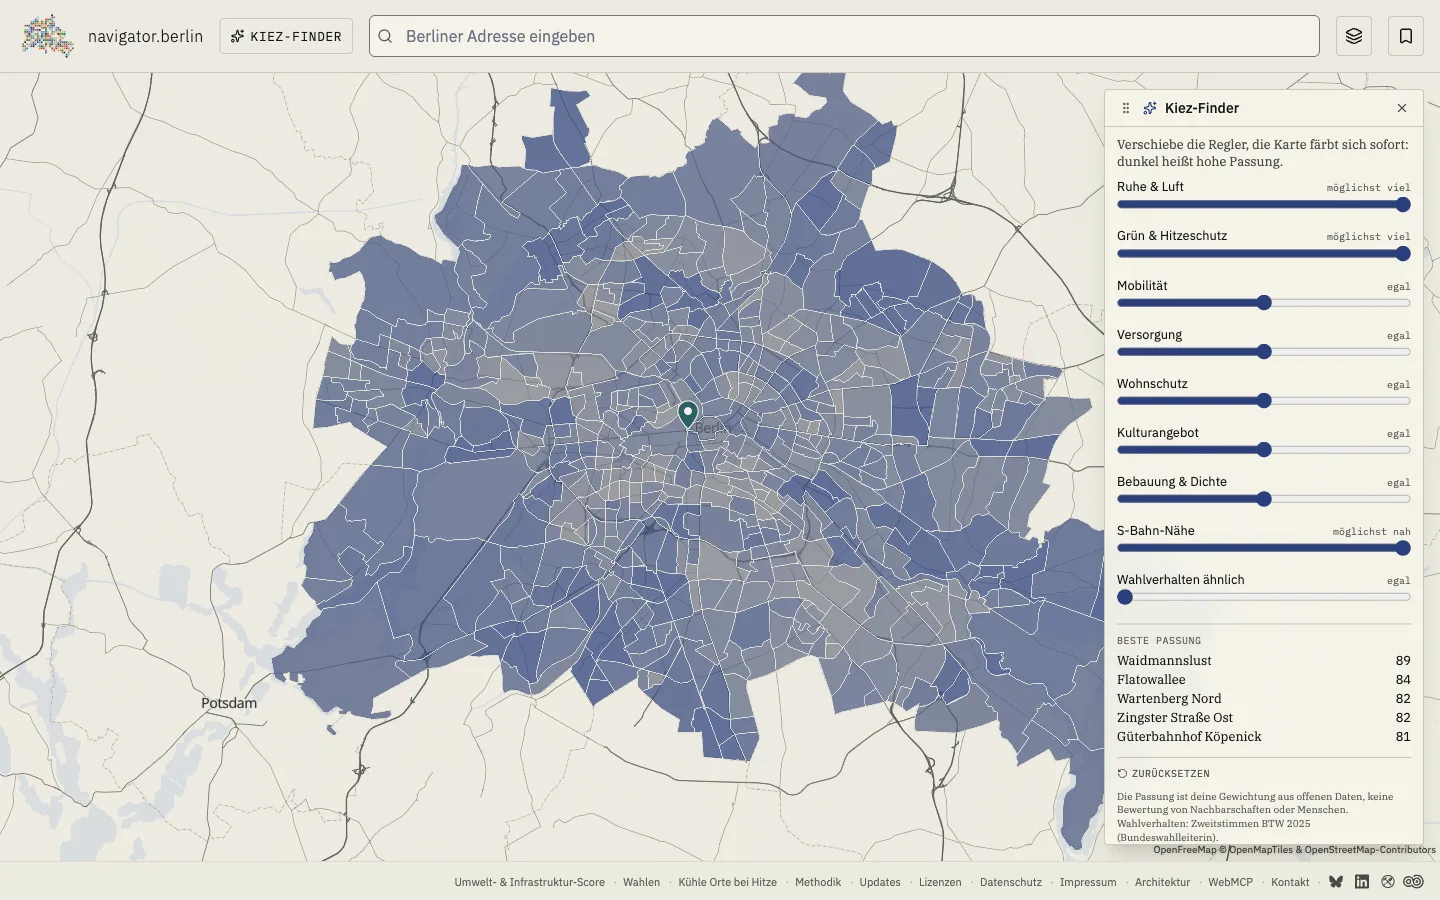
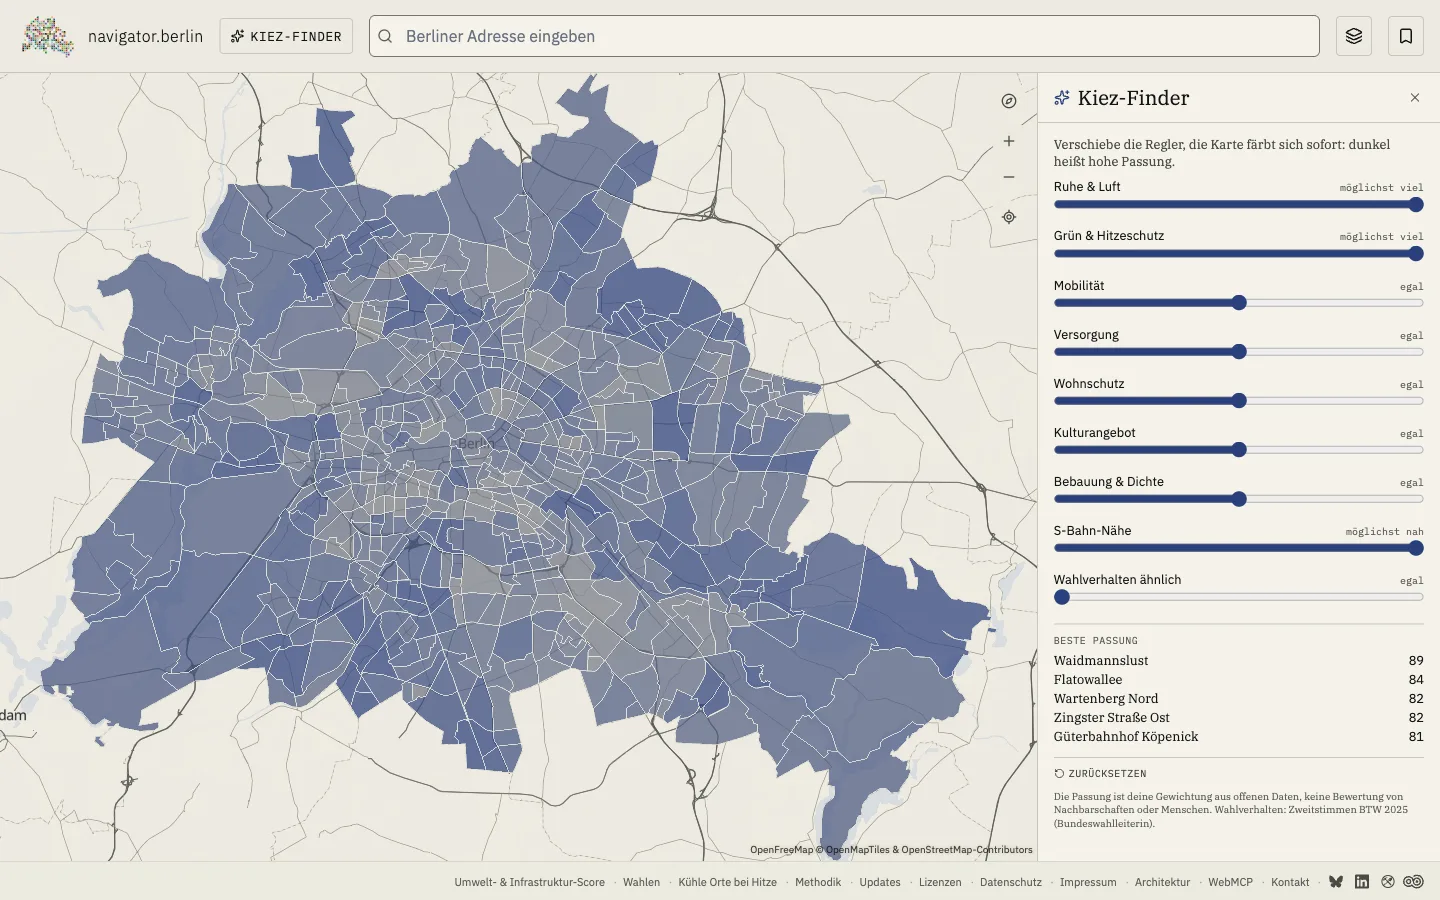
Docke Kiez-Finder in den Inspector-Slot statt Floating-Dialog
Der frei verschiebbare Dialog war auf Mobile unbenutzbar und zitterte
beim Drag. Der Finder sitzt jetzt im Inspector-Slot: Desktop Seitenpanel,
Mobile Bottom-Sheet, wie der Inspector. Finder und Inspector wechseln
sich ab; bei Karten-Klick bleibt der Finder gemountet, Gewichte und
Karten-Färbung überleben den Wechsel. Drag-Code komplett entfernt.

?finder=1 wird jetzt bei jeder Navigation konsumiert, nicht nur beim
Mount: der Header-Link öffnet den Finder ohne Reload. Der Param fliegt
nach dem Konsum aus der URL. Beim Finder-Einstieg entfällt die
Default-Adresse, sonst verdeckt der Auto-Inspector den Finder.

Home-Screenshot auf das gedockte Layout aktualisiert.

diff --git a/src/routes/(with-header)/explore/+page.svelte b/src/routes/(with-header)/explore/+page.svelte
@@ -192,7 +192,6 @@
 		// (z.B. kuehle-orte via Hitze-Landing → Home → Explorer).
 		// Multi-Layer-Limit auch am URL-Einstieg: höchstens 2 Choroplethen.
 		ui.activeLayerSlugs = capPolygonSlugs(data.activeLayers ?? []);
-		if (featureFlags.kiezFinder && data.finderOpen) ui.finderOpen = true;
 		// Lead gegen die GEKAPPTE Liste prüfen: parseLead sah die rohe URL-Liste,
 		// der Cap kann den Lead-Slug gerade entfernt haben.
 		ui.choroplethLeadSlug =
@@ -200,7 +199,11 @@
 		// Story 2.12 Quick-Links: wenn `?address=lng,lat&q=…` gesetzt, bauen
 		// wir eine synthetische GeocodeSuggestion und triggern die Adress-
 		// Selection. Inspector öffnet sich dann automatisch.
-		if (typeof data.address?.lng === 'number' && typeof data.address?.lat === 'number') {
+		// Finder-Einstieg (?finder=1): keine Default-Adresse setzen, sonst
+		// verdeckt der automatisch geöffnete Inspector den Finder im Slot.
+		if (featureFlags.kiezFinder && data.finderOpen) {
+			// bewusst leer: der Finder besetzt den Slot, kein Auto-Inspector
+		} else if (typeof data.address?.lng === 'number' && typeof data.address?.lat === 'number') {
 			const displayName =
 				data.address.q ?? `${data.address.lat.toFixed(5)}, ${data.address.lng.toFixed(5)}`;
 			selection.set({
@@ -539,6 +542,26 @@
 			return;
 		}
 		void renderRegionOutline(addr.lat, addr.lng, scope, addr.id);
+	});
+
+	// ?finder=1 wird bei JEDER Navigation konsumiert, nicht nur beim Mount:
+	// der Header-Link navigiert client-seitig, onMount liefe dann nie.
+	// Nach dem Konsum fliegt der Param aus der URL, damit ein erneuter
+	// Header-Klick wieder eine echte Navigation auslöst.
+	$effect(() => {
+		if (!featureFlags.kiezFinder || !data.finderOpen) return;
+		ui.finderOpen = true;
+		ui.inspectorOpen = false;
+		const url = new URL(window.location.href);
+		if (url.searchParams.has('finder')) {
+			url.searchParams.delete('finder');
+			// eslint-disable-next-line svelte/no-navigation-without-resolve
+			void goto(`?${url.searchParams.toString()}`, {
+				replaceState: true,
+				keepFocus: true,
+				noScroll: true
+			});
+		}
 	});
 
 	$effect(() => {
@@ -1088,14 +1111,14 @@
 		}
 	}
 
-	const showSidePanel = $derived(
-		viewport.breakpoint !== 'mobile' &&
-			((ui.inspectorOpen && ui.selectedAddress !== null) || ui.compareMode)
-	);
-	const showBottomSheet = $derived(
-		viewport.breakpoint === 'mobile' &&
-			((ui.inspectorOpen && ui.selectedAddress !== null) || ui.compareMode)
-	);
+	const finderActive = $derived(featureFlags.kiezFinder && ui.finderOpen);
+	const inspectorActive = $derived(ui.inspectorOpen && ui.selectedAddress !== null);
+	const slotOccupied = $derived(inspectorActive || ui.compareMode || finderActive);
+	const showSidePanel = $derived(viewport.breakpoint !== 'mobile' && slotOccupied);
+	const showBottomSheet = $derived(viewport.breakpoint === 'mobile' && slotOccupied);
+	// Finder bleibt gemountet, solange er offen ist: Slider-Gewichte und
+	// Karten-Färbung überleben den Wechsel zum Inspector (Karten-Klick).
+	const finderVisible = $derived(finderActive && !inspectorActive && !ui.compareMode);
 
 	const ogInput = $derived.by<OgImageInput | null>(() => {
 		const addr = ui.selectedAddress;
@@ -1199,12 +1222,6 @@
 			onRemove={onLegendRemove}
 			onPromoteLayer={(slug: string) => (ui.choroplethLeadSlug = slug)}
 		/>
-		{#if featureFlags.kiezFinder && ui.finderOpen}
-			<KiezFinderPanel
-				map={rawMap as unknown as FinderMapApi | null}
-				onClose={() => (ui.finderOpen = false)}
-			/>
-		{/if}
 		<MapHoverTooltip
 			map={rawMap as MapHoverApi | null}
 			activeLayerSlugs={ui.activeLayerSlugs}
@@ -1225,7 +1242,11 @@
 	{#if showSidePanel}
 		<aside
 			class="min-h-0 overflow-y-auto border-t border-rule bg-bg-elevated lg:h-full lg:border-t-0 lg:border-l"
-			aria-label={ui.compareMode ? 'Adress-Vergleich' : 'Adress-Inspector-Bereich'}
+			aria-label={ui.compareMode
+				? 'Adress-Vergleich'
+				: inspectorActive
+					? 'Adress-Inspector-Bereich'
+					: 'Kiez-Finder'}
 			data-testid="inspector-slot"
 		>
 			{#if ui.compareMode}
@@ -1234,8 +1255,16 @@
 					geocode={geocodeForCompare}
 					onOpenBookmarkPicker={openBookmarkPickerForCompare}
 				/>
-			{:else}
+			{:else if inspectorActive}
 				<InspectorPanel layerMeta={manifestLayers} />
+			{/if}
+			{#if finderActive && viewport.breakpoint !== 'mobile'}
+				<div class={finderVisible ? 'h-full' : 'hidden'}>
+					<KiezFinderPanel
+						map={rawMap as unknown as FinderMapApi | null}
+						onClose={() => (ui.finderOpen = false)}
+					/>
+				</div>
 			{/if}
 		</aside>
 	{/if}
@@ -1244,8 +1273,16 @@
 			open
 			snapVh={ui.sheetSnapVh}
 			onSnap={setSnap}
-			onClose={ui.compareMode ? () => exitCompareMode(ui) : closeInspector}
-			ariaLabel={ui.compareMode ? 'Adress-Vergleich' : 'Adress-Inspektor'}
+			onClose={ui.compareMode
+				? () => exitCompareMode(ui)
+				: inspectorActive
+					? closeInspector
+					: () => (ui.finderOpen = false)}
+			ariaLabel={ui.compareMode
+				? 'Adress-Vergleich'
+				: inspectorActive
+					? 'Adress-Inspektor'
+					: 'Kiez-Finder'}
 		>
 			{#if ui.compareMode}
 				<ComparePanel
@@ -1253,8 +1290,16 @@
 					geocode={geocodeForCompare}
 					onOpenBookmarkPicker={openBookmarkPickerForCompare}
 				/>
-			{:else}
+			{:else if inspectorActive}
 				<InspectorPanel layerMeta={manifestLayers} variant="sheet" />
+			{/if}
+			{#if finderActive && viewport.breakpoint === 'mobile'}
+				<div class={finderVisible ? '' : 'hidden'}>
+					<KiezFinderPanel
+						map={rawMap as unknown as FinderMapApi | null}
+						onClose={() => (ui.finderOpen = false)}
+					/>
+				</div>
 			{/if}
 		</BottomSheet>
 	{/if}

diff --git a/src/lib/components/atlas/kiez-finder-panel.svelte b/src/lib/components/atlas/kiez-finder-panel.svelte
@@ -1,5 +1,5 @@
 <script lang="ts">
-	import { X, RotateCcw, Sparkles, GripVertical } from '@lucide/svelte';
+	import { X, RotateCcw, Sparkles } from '@lucide/svelte';
 	import type { FeatureCollection, MultiPolygon, Polygon } from 'geojson';
 	import { PARTEI_FARBEN, type ParteiKurzname } from '$lib/data/partei-farben.js';
 	import {
@@ -200,51 +200,6 @@
 		};
 	});
 
-	// Drag: Pointer am Kopf verschiebt das Panel (Viewport-geklemmt).
-	let dx = $state(0);
-	let dy = $state(0);
-	let dragging: { startX: number; startY: number; baseX: number; baseY: number } | null = null;
-	let panelEl = $state<HTMLElement | null>(null);
-
-	function onDragStart(event: PointerEvent): void {
-		dragging = { startX: event.clientX, startY: event.clientY, baseX: dx, baseY: dy };
-		window.addEventListener('pointermove', onDragMove);
-		window.addEventListener('pointerup', onDragEnd, { once: true });
-	}
-	function onDragMove(event: PointerEvent): void {
-		if (!dragging) return;
-		const rect = panelEl?.getBoundingClientRect();
-		let nextX = dragging.baseX + event.clientX - dragging.startX;
-		let nextY = dragging.baseY + event.clientY - dragging.startY;
-		if (rect) {
-			const minX = dragging.baseX - rect.left + 8;
-			const minY = dragging.baseY - rect.top + 8;
-			nextX = Math.max(minX, nextX);
-			nextY = Math.max(minY, nextY);
-		}
-		dx = nextX;
-		dy = nextY;
-	}
-	function onDragEnd(): void {
-		dragging = null;
-		window.removeEventListener('pointermove', onDragMove);
-	}
-
-	function onKeydown(event: KeyboardEvent): void {
-		if (event.key === 'Escape') onClose?.();
-	}
-
-	/** Tastatur-Alternative zum Drag: Pfeiltasten verschieben in 16-px-Schritten. */
-	function onHandleKeydown(event: KeyboardEvent): void {
-		const step = 16;
-		if (event.key === 'ArrowLeft') dx -= step;
-		else if (event.key === 'ArrowRight') dx += step;
-		else if (event.key === 'ArrowUp') dy -= step;
-		else if (event.key === 'ArrowDown') dy += step;
-		else return;
-		event.preventDefault();
-	}
-
 	function stufenText(value: number, low: string, high: string): string {
 		if (value === 0) return 'egal';
 		const grad = Math.abs(value) === 2 ? 'möglichst' : 'eher';
@@ -253,29 +208,15 @@
 	void STUFEN_BIPOLAR;
 </script>
 
-<div
-	bind:this={panelEl}
+<section
 	data-testid="finder-panel"
-	role="dialog"
-	aria-label="Kiez-Finder: Sag der Karte, was du suchst"
-	tabindex="-1"
-	onkeydown={onKeydown}
-	class="absolute top-4 right-4 z-40 flex max-h-[calc(100%-2rem)] w-80 flex-col overflow-hidden rounded-sm border border-rule bg-bg-elevated/95 shadow-xl backdrop-blur-sm"
-	style:transform="translate({dx}px, {dy}px)"
+	class="flex h-full flex-col overflow-hidden bg-bg-elevated text-ink"
 >
-	<header class="flex items-center gap-2 border-b border-rule px-3 py-2 select-none">
-		<button
-			type="button"
-			data-testid="finder-drag-handle"
-			aria-label="Panel verschieben (ziehen oder Pfeiltasten)"
-			onpointerdown={onDragStart}
-			onkeydown={onHandleKeydown}
-			class="cursor-grab p-0.5 text-ink-subtle hover:text-ink focus-visible:outline focus-visible:outline-2 focus-visible:outline-accent active:cursor-grabbing"
-		>
-			<GripVertical size={14} aria-hidden="true" />
-		</button>
-		<Sparkles size={14} aria-hidden="true" class="text-accent" />
-		<h2 class="flex-1 font-sans text-sm font-medium text-ink">Kiez-Finder</h2>
+	<header
+		class="sticky top-0 z-10 flex items-center gap-2 border-b border-rule bg-bg-elevated px-4 py-3"
+	>
+		<Sparkles size={16} aria-hidden="true" class="text-accent" />
+		<h2 class="flex-1 font-serif text-lg leading-tight text-ink">Kiez-Finder</h2>
 		<button
 			type="button"
 			data-testid="finder-close"
@@ -287,7 +228,7 @@
 		</button>
 	</header>
 
-	<div class="flex-1 overflow-y-auto px-3 py-2">
+	<div class="flex-1 overflow-y-auto px-4 py-3">
 		{#if loading}
 			<p class="py-6 text-center font-mono text-xs text-ink-muted" role="status">
 				Daten werden geladen …
@@ -404,7 +345,7 @@
 			</p>
 		{/if}
 	</div>
-</div>
+</section>
 
 <style>
 	.finder-range {

diff --git a/src/lib/components/atlas/kiez-finder-panel.svelte.test.ts b/src/lib/components/atlas/kiez-finder-panel.svelte.test.ts
@@ -90,12 +90,13 @@ async function renderPanel(overrides: Record<string, unknown> = {}) {
 }
 
 describe('kiez-finder-panel', () => {
-	it('rendert als nicht-modaler Dialog mit beschrifteten Slidern', async () => {
+	it('rendert als gedockte Section mit Überschrift und beschrifteten Slidern', async () => {
 		await renderPanel();
 		const panel = (await page.getByTestId('finder-panel').element()) as HTMLElement;
-		expect(panel.getAttribute('role')).toBe('dialog');
-		expect(panel.getAttribute('aria-modal')).toBeNull();
-		expect(panel.getAttribute('aria-label')).toContain('Kiez-Finder');
+		// Gedockt im Inspector-Slot: kein Dialog, kein Drag-Handle mehr.
+		expect(panel.getAttribute('role')).toBeNull();
+		expect(panel.querySelector('[data-testid="finder-drag-handle"]')).toBeNull();
+		expect(panel.querySelector('h2')?.textContent).toContain('Kiez-Finder');
 		const sliders = panel.querySelectorAll('input[type="range"]');
 		expect(sliders.length).toBeGreaterThanOrEqual(9);
 		for (const slider of sliders) {
@@ -135,10 +136,10 @@ describe('kiez-finder-panel', () => {
 		expect(slider.value).toBe('0');
 	});
 
-	it('Escape schließt das Panel', async () => {
+	it('Schließen-Button ruft onClose', async () => {
 		const { onClose } = await renderPanel();
-		const panel = (await page.getByTestId('finder-panel').element()) as HTMLElement;
-		panel.dispatchEvent(new KeyboardEvent('keydown', { key: 'Escape', bubbles: true }));
+		const close = (await page.getByTestId('finder-close').element()) as HTMLButtonElement;
+		close.click();
 		expect(onClose).toHaveBeenCalled();
 	});
 
@@ -147,23 +148,5 @@ describe('kiez-finder-panel', () => {
 		const panel = (await page.getByTestId('finder-panel').element()) as HTMLElement;
 		expect(panel.textContent).toContain('keine Bewertung von Nachbarschaften');
 		expect(panel.textContent).toContain('offenen Daten');
-	});
-
-	it('Drag am Kopf verschiebt das Panel', async () => {
-		await renderPanel();
-		const handle = (await page.getByTestId('finder-drag-handle').element()) as HTMLElement;
-		const panel = (await page.getByTestId('finder-panel').element()) as HTMLElement;
-		const before = panel.style.transform;
-		handle.dispatchEvent(
-			new PointerEvent('pointerdown', { clientX: 10, clientY: 10, bubbles: true, pointerId: 1 })
-		);
-		window.dispatchEvent(
-			new PointerEvent('pointermove', { clientX: 60, clientY: 40, pointerId: 1 })
-		);
-		window.dispatchEvent(new PointerEvent('pointerup', { pointerId: 1 }));
-		await vi.waitFor(() => {
-			expect(panel.style.transform).not.toBe(before);
-			expect(panel.style.transform).toContain('50');
-		});
 	});
 });
